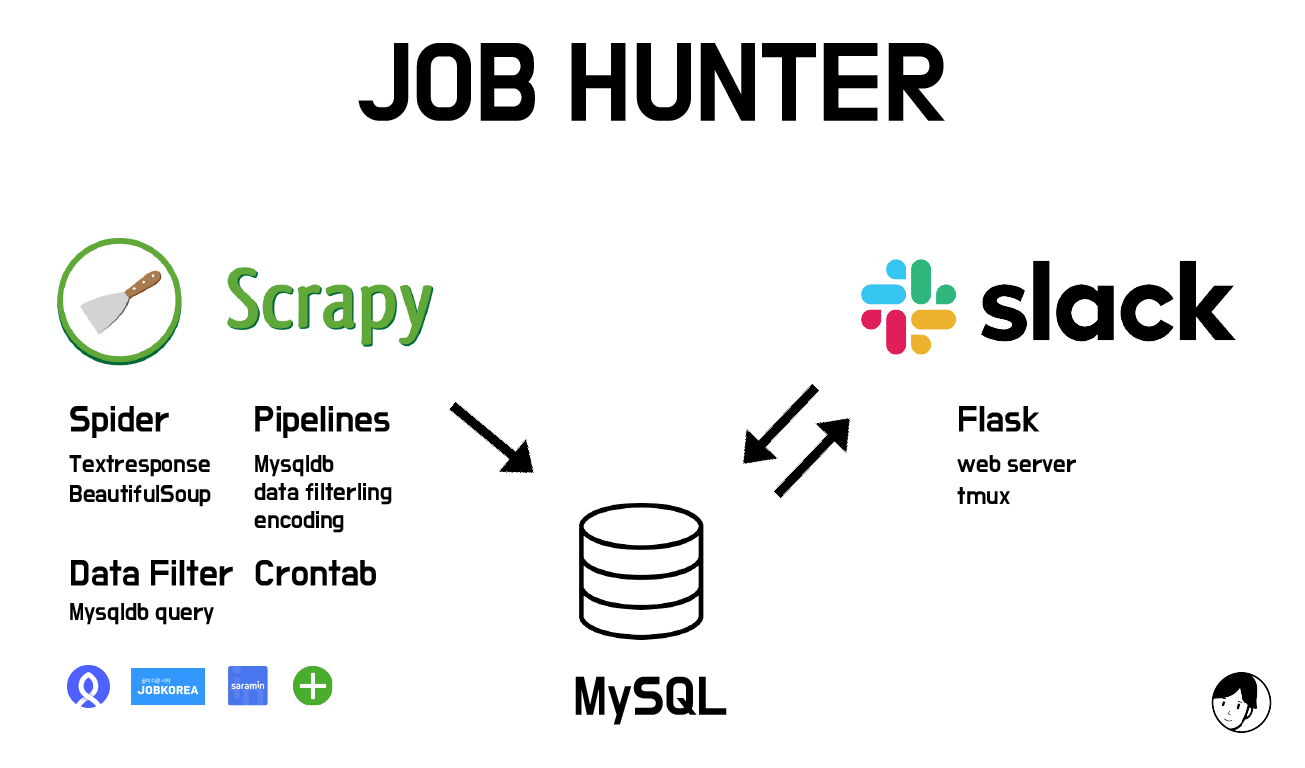
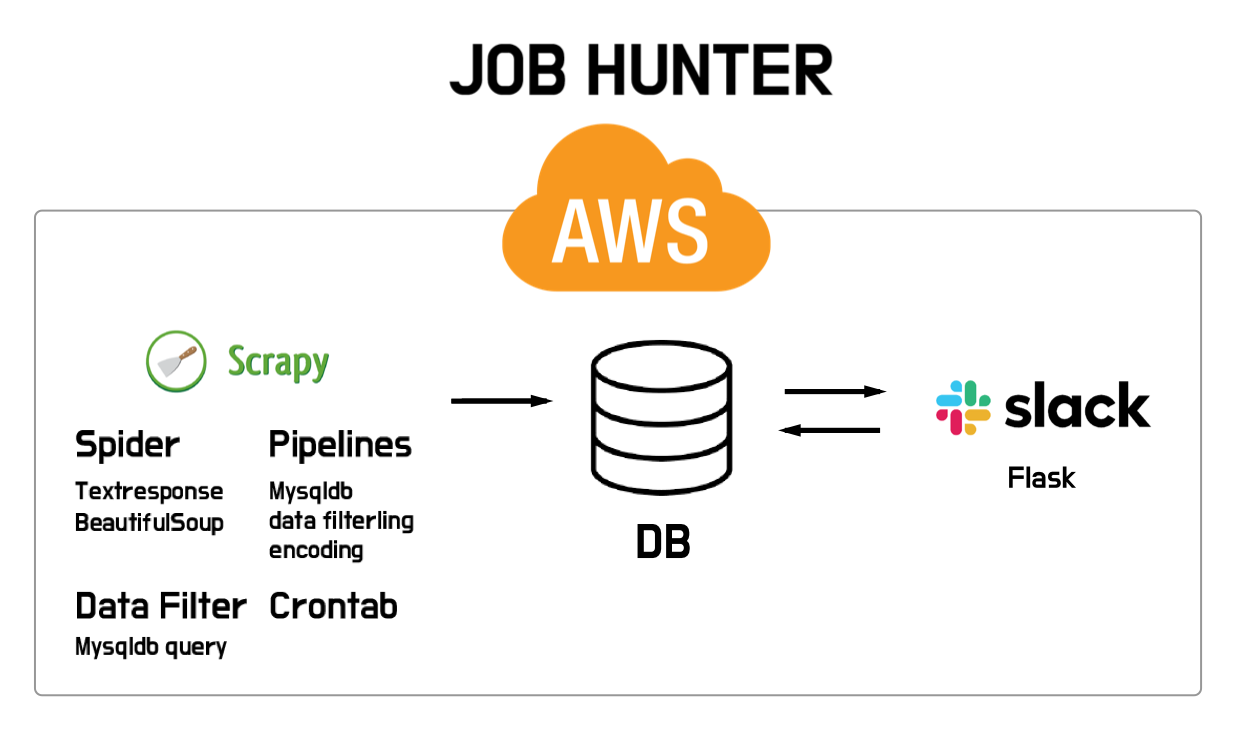
upload image

Changed region(s): [[0.0308, 0.0312, 0.9846, 0.9674], [0.3385, 0.4369, 0.9231, 0.8426]]

diff --git a/README.md b/README.md
@@ -7,7 +7,7 @@
 ## Technical Skills
 - Python, Scrapy, MySQL, SQL ALchemy, Crontab, AWS, Flask
 
-## Workflow
+## Structure
   <img src="./img/summary.png" width="800px">
 
   1. **BeautifulSoup**로 HTML로 파싱하여 Css-selector를 활용한 크롤링
